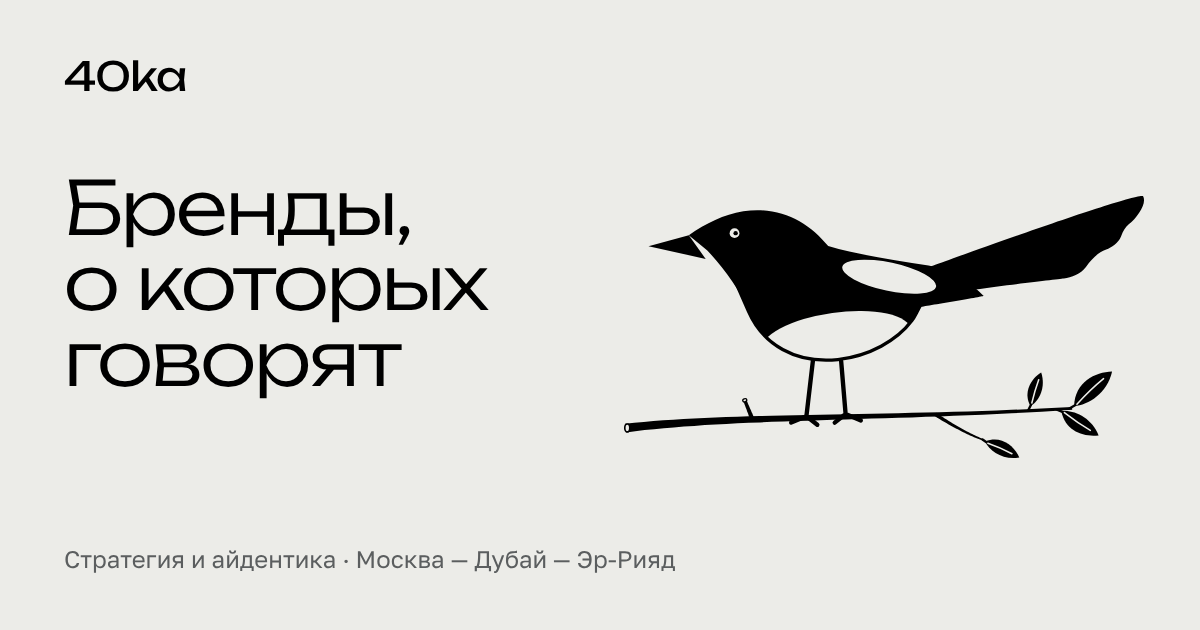
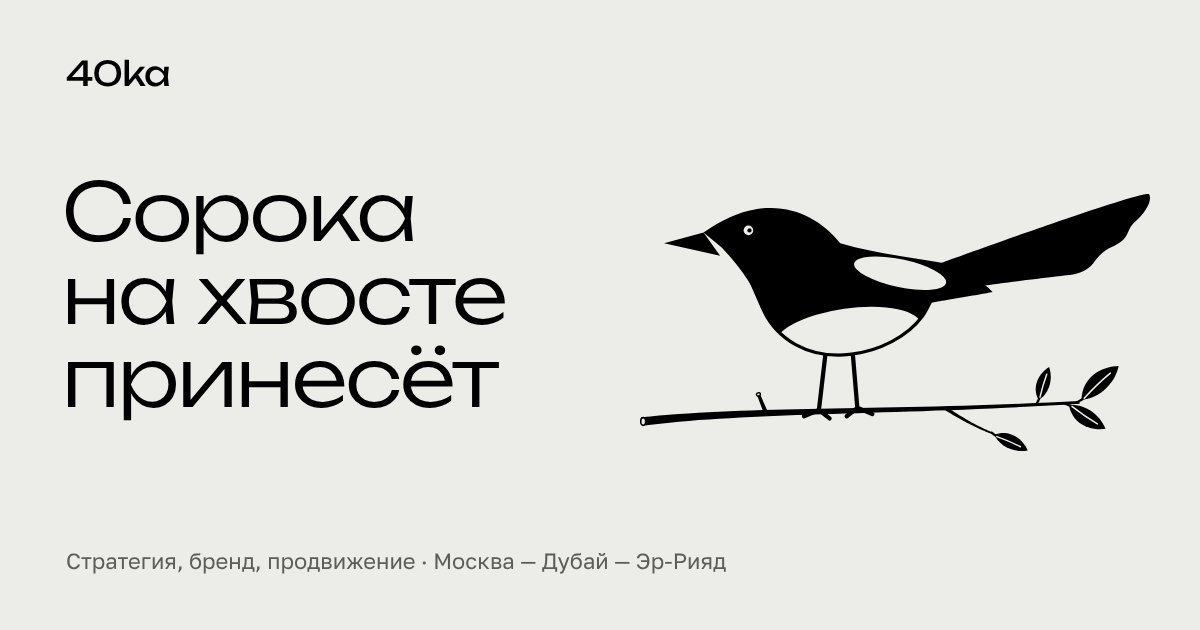
Новый заголовок: «Сорока на хвосте принесёт» (EN: «A little bird told them»)
- Заголовок первого экрана, описание для поисковиков и карточка ссылки — на новой фразе
- Картинки для пересылки ссылки перерисованы на обоих языках (внизу: «Стратегия, бренд, продвижение»)
- Английская версия пересобрана

Claude-Session: https://claude.ai/code/session_01ARYNsDozZ9rhrjs8BgKQgy

diff --git a/index.html b/index.html
@@ -6,17 +6,17 @@
 <title>40ka</title>
 <link rel="alternate" hreflang="ru" href="https://shamil-gdev.github.io/40ka-studio/">
 <link rel="alternate" hreflang="en" href="https://shamil-gdev.github.io/40ka-studio/en/">
-<meta name="description" content="40ka — бренды, о которых говорят. Стратегия, айдентика, сайты, ролики и продвижение для бизнеса, который хотят рекомендовать. Москва, Дубай, Эр-Рияд.">
+<meta name="description" content="40ka: сорока на хвосте принесёт. Стратегия, айдентика, сайты, ролики и продвижение для бизнеса, который хотят рекомендовать. Москва, Дубай, Эр-Рияд.">
 <meta property="og:type" content="website">
 <meta property="og:site_name" content="40ka">
 <meta property="og:locale" content="ru_RU">
 <meta property="og:title" content="40ka — стратегия, бренд, продвижение">
-<meta property="og:description" content="40ka — бренды, о которых говорят. Стратегия, айдентика, сайты, ролики и продвижение для бизнеса, который хотят рекомендовать. Москва, Дубай, Эр-Рияд.">
+<meta property="og:description" content="40ka: сорока на хвосте принесёт. Стратегия, айдентика, сайты, ролики и продвижение для бизнеса, который хотят рекомендовать. Москва, Дубай, Эр-Рияд.">
 <meta property="og:url" content="https://shamil-gdev.github.io/40ka-studio/">
 <meta property="og:image" content="https://shamil-gdev.github.io/40ka-studio/img/og.png">
 <meta property="og:image:width" content="1200">
 <meta property="og:image:height" content="630">
-<meta property="og:image:alt" content="Сорока на ветке и слова «Бренды, о которых говорят»">
+<meta property="og:image:alt" content="Сорока на ветке и слова «Сорока на хвосте принесёт»">
 <meta name="twitter:card" content="summary_large_image">
 <meta name="theme-color" content="#ECECE8">
 <link rel="icon" href="favicon.svg" type="image/svg+xml">
@@ -82,9 +82,9 @@
   <section class="hero wrap">
     <div class="hero__text">
       <h1 class="hero__title">
-        <span class="l"><span>Бренды,</span></span>
-        <span class="l"><span>о которых</span></span>
-        <span class="l"><span>говорят</span></span>
+        <span class="l"><span>Сорока</span></span>
+        <span class="l"><span>на хвосте</span></span>
+        <span class="l"><span>принесёт</span></span>
       </h1>
     </div>
     <div class="hero__bird" data-parallax="-.08">

diff --git a/en/index.html b/en/index.html
@@ -6,17 +6,17 @@
 <title>40ka</title>
 <link rel="alternate" hreflang="ru" href="https://shamil-gdev.github.io/40ka-studio/">
 <link rel="alternate" hreflang="en" href="https://shamil-gdev.github.io/40ka-studio/en/">
-<meta name="description" content="40ka — brands people talk about. Strategy, identity, websites, videos and promotion for businesses people want to recommend. Moscow, Dubai, Riyadh.">
+<meta name="description" content="40ka: a little bird told them. Strategy, identity, websites, videos and promotion for businesses people want to recommend. Moscow, Dubai, Riyadh.">
 <meta property="og:type" content="website">
 <meta property="og:site_name" content="40ka">
 <meta property="og:locale" content="en_US">
 <meta property="og:title" content="40ka — strategy, brand, promotion">
-<meta property="og:description" content="40ka — brands people talk about. Strategy, identity, websites, videos and promotion for businesses people want to recommend. Moscow, Dubai, Riyadh.">
+<meta property="og:description" content="40ka: a little bird told them. Strategy, identity, websites, videos and promotion for businesses people want to recommend. Moscow, Dubai, Riyadh.">
 <meta property="og:url" content="https://shamil-gdev.github.io/40ka-studio/en/">
 <meta property="og:image" content="https://shamil-gdev.github.io/40ka-studio/img/og-en.png">
 <meta property="og:image:width" content="1200">
 <meta property="og:image:height" content="630">
-<meta property="og:image:alt" content="A magpie on a branch and the words “Brands people talk about”">
+<meta property="og:image:alt" content="A magpie on a branch and the words “A little bird told them”">
 <meta name="twitter:card" content="summary_large_image">
 <meta name="theme-color" content="#ECECE8">
 <link rel="icon" href="../favicon.svg" type="image/svg+xml">
@@ -82,9 +82,9 @@
   <section class="hero wrap">
     <div class="hero__text">
       <h1 class="hero__title">
-        <span class="l"><span>Brands</span></span>
-        <span class="l"><span>people</span></span>
-        <span class="l"><span>talk about</span></span>
+        <span class="l"><span>A little</span></span>
+        <span class="l"><span>bird</span></span>
+        <span class="l"><span>told them</span></span>
       </h1>
     </div>
     <div class="hero__bird" data-parallax="-.08">

diff --git a/tools/build_en.py b/tools/build_en.py
@@ -25,14 +25,15 @@ TR = {
         'One email is enough: who you are, what you want to change and by when. We reply within two working days.',
 
     # ---------- home: meta ----------
-    '40ka — бренды, о которых говорят. Стратегия, айдентика, сайты, ролики и продвижение для бизнеса, который хотят рекомендовать. Москва, Дубай, Эр-Рияд.':
-        '40ka — brands people talk about. Strategy, identity, websites, videos and promotion for businesses people want to recommend. Moscow, Dubai, Riyadh.',
+    '40ka: сорока на хвосте принесёт. Стратегия, айдентика, сайты, ролики и продвижение для бизнеса, который хотят рекомендовать. Москва, Дубай, Эр-Рияд.':
+        '40ka: a little bird told them. Strategy, identity, websites, videos and promotion for businesses people want to recommend. Moscow, Dubai, Riyadh.',
     '40ka — стратегия, бренд, продвижение': '40ka — strategy, brand, promotion',
-    'Сорока на ветке и слова «Бренды, о которых говорят»': 'A magpie on a branch and the words “Brands people talk about”',
+    'Сорока на ветке и слова «Сорока на хвосте принесёт»': 'A magpie on a branch and the words “A little bird told them”',
     'ru_RU': 'en_US',
 
     # ---------- home: hero and ticker ----------
-    'Бренды,': 'Brands', 'о которых': 'people', 'говорят': 'talk about',
+    # «Сорока на хвосте принесёт» — the Russian saying for news that spreads by itself; English has its own bird for it
+    'Сорока': 'A little', 'на хвосте': 'bird', 'принесёт': 'told them',
     'Стратегия, бренд и продвижение для бизнеса, который хотят рекомендовать.':
         'Strategy, brand and promotion for businesses people want to recommend.',
     'Москва': 'Moscow', 'Дубай': 'Dubai', 'Эр-Рияд': 'Riyadh',
